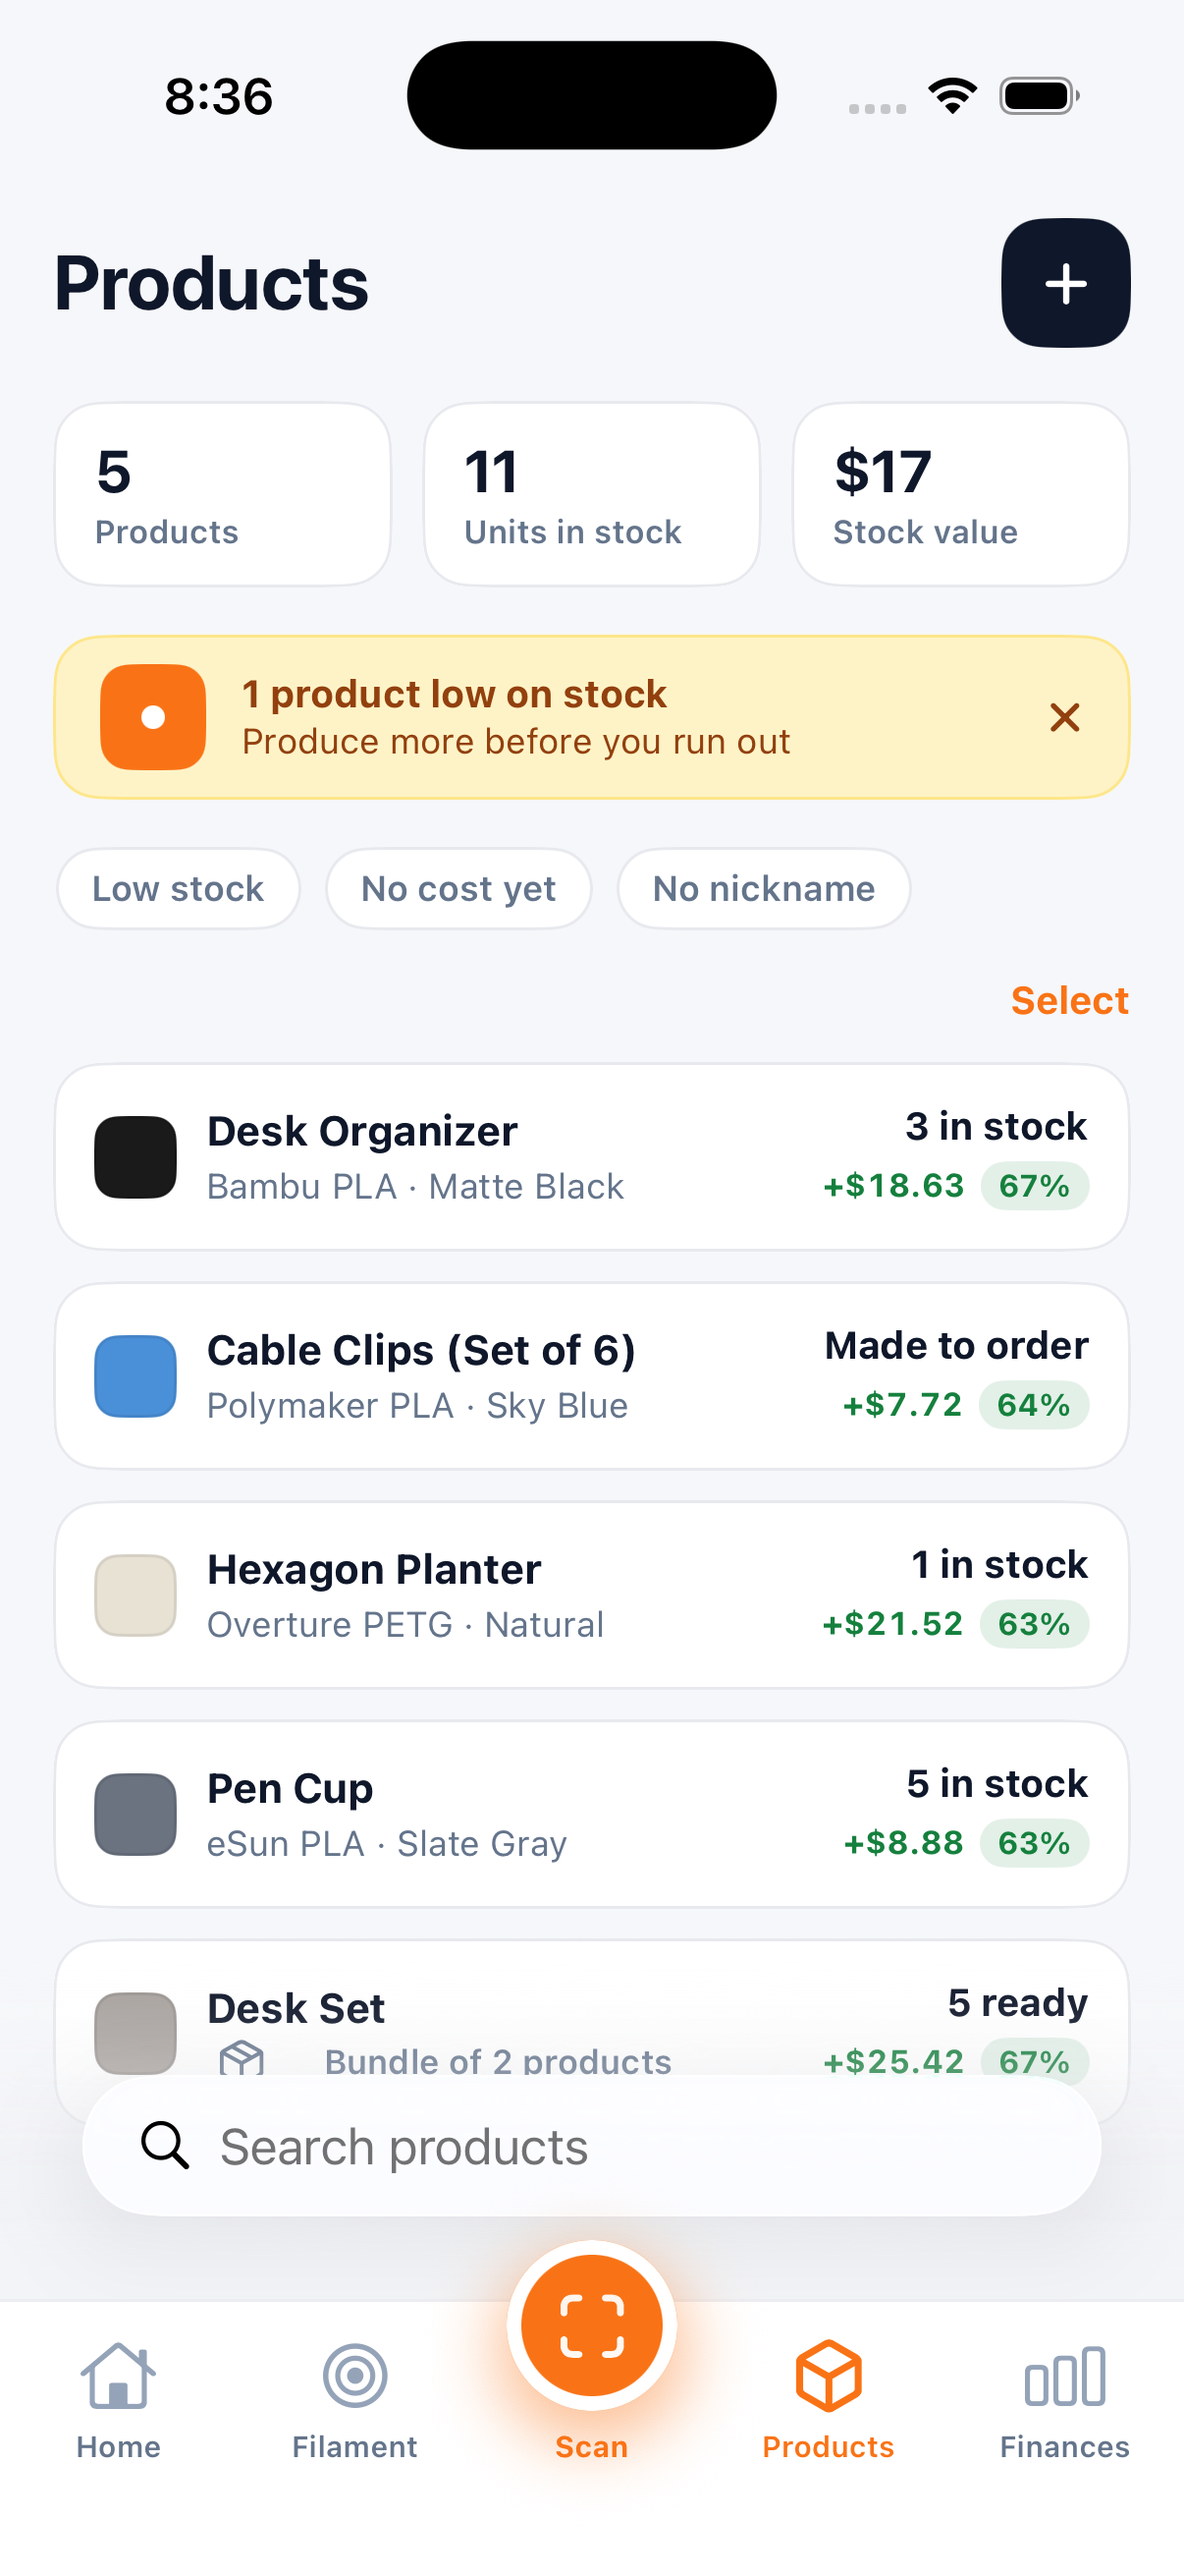
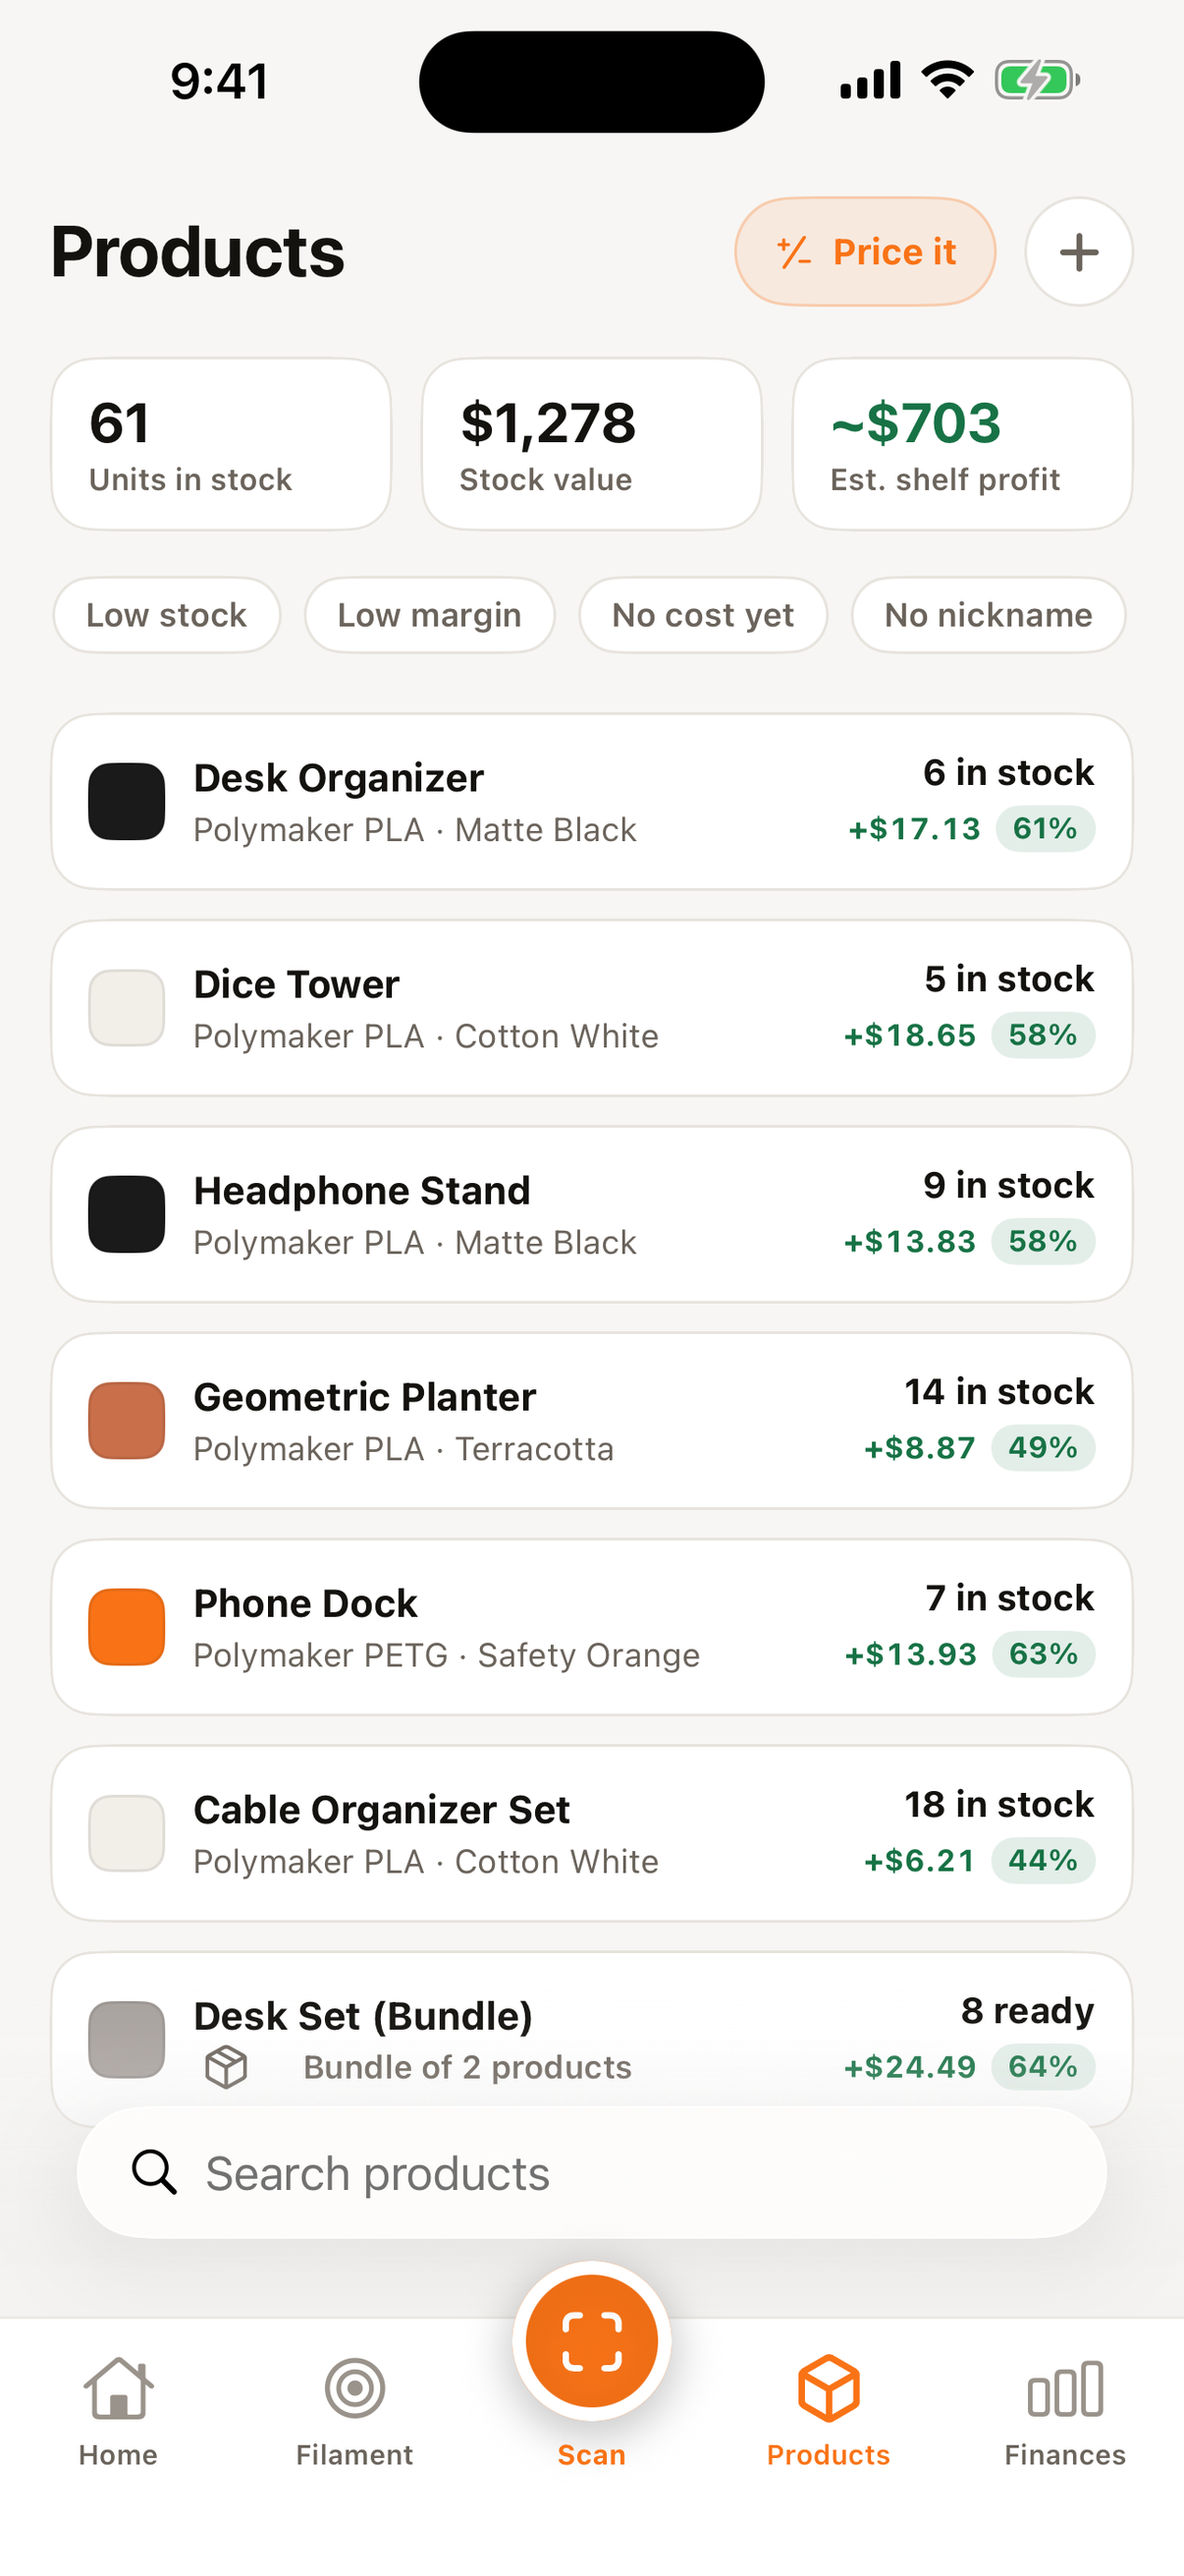
Hero: the full-size phone back, tabbed through the app's five real tabs
Restores the large hero device (the small crop-sized widget was the wrong shape for the
hero) and makes it tap-through across the app's actual tab bar — Home, Filament, Scan,
Products, Finances — with a caption per screen. Finances keeps the interactive P&L, so
tapping a month bar still re-aims the whole statement. All five screens regenerated from
current 1290x2796 captures.

FAQ: 'Does SpoolPilot use the real Etsy fees, or estimates?' becomes 'How does SpoolPilot
calculate profit?', and the answer now walks the actual subtraction in order — buyer paid,
then Etsy's real per-order fees, filament by grams, electricity, packaging, labour — since
that is what the new question asks. Schema mirrors it.

diff --git a/index.html b/index.html
@@ -43,8 +43,8 @@
     "@context": "https://schema.org",
     "@type": "FAQPage",
     "mainEntity": [
-      { "@type": "Question", "name": "Does SpoolPilot use the real Etsy fees, or estimates?",
-        "acceptedAnswer": { "@type": "Answer", "text": "The real ones. After you connect your shop, SpoolPilot reads the exact fees Etsy charged on each order from Etsy's own ledger — transaction, payment processing, listing, and Offsite Ads — and subtracts them to the cent. A built-in calculator can estimate fees for a print you haven't sold yet, and estimates are always marked as such." } },
+      { "@type": "Question", "name": "How does SpoolPilot calculate profit?",
+        "acceptedAnswer": { "@type": "Answer", "text": "It starts with what the buyer actually paid, then subtracts the real costs one by one: the exact fees Etsy charged on that order — transaction, payment processing, listing, and Offsite Ads, read from Etsy's own ledger, not estimated — then the filament by grams at your price per kilo, the electricity for the print time, packaging, and your labour if you set an hourly rate. What's left is the profit on that order. For a print you haven't sold yet the calculator estimates the fees instead, and anything estimated is marked with a tilde." } },
       { "@type": "Question", "name": "How is SpoolPilot different from Craftybase or a spreadsheet?",
         "acceptedAnswer": { "@type": "Answer", "text": "Craftybase is a full manufacturing-inventory suite built for the desktop; a spreadsheet only holds the numbers you remember to type. SpoolPilot is a native iOS app focused on one question — what did this Etsy order actually make you — and it logs the sale, the real fee, and the filament grams the moment they happen. Nothing to enter, nothing to reconcile." } },
       { "@type": "Question", "name": "What does SpoolPilot cost?",
@@ -58,7 +58,7 @@
     ]
   }
   </script>
-  <link rel="preload" as="image" href="/phone-dashboard-crop.png" type="image/png">
+  <link rel="preload" as="image" href="/shot-home.png" type="image/png">
   <link href="https://fonts.googleapis.com/css2?family=Hanken+Grotesk:wght@400;500;600;700;800&display=swap" rel="stylesheet">
   <style>
     :root{
@@ -296,6 +296,15 @@
     @media (max-width:420px){.tabs button{padding:9px 13px;font-size:14px}}
     .tabs button[aria-selected=true]{background:#fff;color:var(--ink);box-shadow:0 1px 3px rgba(17,16,16,.14)}
     .floor-view{position:relative;margin:26px auto 0;width:270px;max-width:78vw;aspect-ratio:440/844}
+    /* Hero: the full-size device, tabbed through the app's five real tabs. */
+    .hero .tabs{margin-top:56px}
+    .hero-device{position:relative;margin:24px auto 0;width:326px;max-width:82vw;aspect-ratio:1206/2622}
+    .hero-device img,.hero-device .floor-app{position:absolute;inset:0;width:100%;height:100%;
+      border-radius:34px;box-shadow:0 42px 80px -40px rgba(17,16,16,.42),0 0 0 1px rgba(17,16,16,.07);
+      opacity:0;transition:opacity .2s ease;pointer-events:none}
+    .hero-device img.active,.hero-device .floor-app.active{opacity:1;pointer-events:auto}
+    .hero-device .floor-app{background:#fff;overflow:hidden;padding:22px 16px 16px;
+      display:flex;flex-direction:column;gap:12px;text-align:left}
     /* In the hero the widget replaces the old static device shot — a touch larger, tighter tab gap. */
     .hero .tabs{margin-top:64px}
     .hero .floor-view{width:300px;margin-top:22px}
@@ -412,14 +421,17 @@
     </div>
       <div class="tabs" id="floorTabs" role="tablist" aria-label="Choose an app screen">
         <button role="tab" type="button" aria-selected="true" data-i="0">Home</button>
-        <button role="tab" type="button" aria-selected="false" data-i="1">A sale</button>
-        <button role="tab" type="button" aria-selected="false" data-i="2">The month</button>
-        <button role="tab" type="button" aria-selected="false" data-i="3">The shelf</button>
+        <button role="tab" type="button" aria-selected="false" data-i="1">Filament</button>
+        <button role="tab" type="button" aria-selected="false" data-i="2">Scan</button>
+        <button role="tab" type="button" aria-selected="false" data-i="3">Products</button>
+        <button role="tab" type="button" aria-selected="false" data-i="4">Finances</button>
       </div>
-      <div class="floor-view" id="floorView">
-        <img class="active" data-i="0" src="phone-dashboard-crop.png" width="440" height="844" fetchpriority="high" alt="SpoolPilot home screen — today's revenue and this month's profit.">
-        <img data-i="1" src="phone-fees-crop.png" width="440" height="844" loading="lazy" alt="Sale detail with the exact Etsy fees itemized.">
-        <div class="floor-app" data-i="2" role="group" aria-label="Interactive monthly profit and loss — tap a month">
+      <div class="hero-device" id="floorView">
+        <img class="active" data-i="0" src="shot-home.png" width="1206" height="2622" fetchpriority="high" alt="SpoolPilot home screen — today's revenue, this month's profit, and recent Etsy orders with the profit on each.">
+        <img data-i="1" src="shot-filament.png" width="1206" height="2622" loading="lazy" alt="Filament inventory — sealed spool counts with weeks of stock left at your sales pace.">
+        <img data-i="2" src="shot-scan.png" width="1206" height="2622" loading="lazy" alt="Scan tab — point the camera at a spool barcode or your slicer screen.">
+        <img data-i="3" src="shot-products.png" width="1206" height="2622" loading="lazy" alt="Products — units in stock, stock value, and estimated shelf profit.">
+        <div class="floor-app" data-i="4" role="group" aria-label="Interactive monthly profit and loss — tap a month">
           <div class="fa-hd"><b>Finances</b><span id="faMonth">August</span></div>
           <div class="fa-pnl">
             <div class="fa-row"><span>Revenue</span><b id="faRev">$3,124.00</b></div>
@@ -436,7 +448,6 @@
           </div>
           <p class="fa-hint">Scroll for costs, best sellers, and every sale &darr;</p>
         </div>
-        <img data-i="3" src="phone-filament-crop.png" width="440" height="844" loading="lazy" alt="Filament inventory with weeks of stock left.">
       </div>
       <p class="floor-cap" id="floorCap">Between prints: today's take and the month's profit at a glance.</p>
     <div class="strip reveal">
@@ -589,8 +600,8 @@
       <h2 class="reveal">Questions makers ask</h2>
       <div class="faq reveal">
         <details>
-          <summary>Does SpoolPilot use the real Etsy fees, or estimates?</summary>
-          <p>The real ones. After you connect your shop, SpoolPilot reads the exact fees Etsy charged on each order from Etsy&rsquo;s own ledger &mdash; transaction, payment processing, listing, and Offsite Ads &mdash; and subtracts them to the cent. A built-in calculator can <em>estimate</em> fees for a print you haven&rsquo;t sold yet, and estimates are always marked as such.</p>
+          <summary>How does SpoolPilot calculate profit?</summary>
+          <p>It starts with what the buyer actually paid, then subtracts the real costs one by one: the exact fees Etsy charged on that order &mdash; transaction, payment processing, listing, and Offsite Ads, read from Etsy&rsquo;s own ledger, not estimated &mdash; then the filament by grams at your price per kilo, the electricity for the print time, packaging, and your labour if you set an hourly rate. What&rsquo;s left is the profit on that order. For a print you haven&rsquo;t sold yet the calculator <em>estimates</em> the fees instead, and anything estimated is marked with a &ldquo;~&rdquo;.</p>
         </details>
         <details>
           <summary>How is SpoolPilot different from Craftybase or a spreadsheet?</summary>
@@ -661,9 +672,10 @@
       var cap = document.getElementById('floorCap');
       var caps = [
         "Between prints: today's take and the month's profit at a glance.",
-        "An order lands: the real Etsy fees and true profit, already itemized.",
-        "Reconciling: tap any month and the whole P&L re-aims to it — same as the app.",
-        "At the shelf: scan spools in or out, no weighing. Weeks-of-stock updates itself."
+        "At the shelf: scan spools in or out, no weighing. Weeks-of-stock keeps itself current.",
+        "Point the camera at a spool barcode — or at your slicer screen to price the print.",
+        "What you sell: units on hand, what the shelf is worth, and the profit in it.",
+        "Reconciling: tap any month and the whole P&L re-aims to it — same as the app."
       ];
       if (tabs && view) {
         tabs.addEventListener('click', function (e) {
